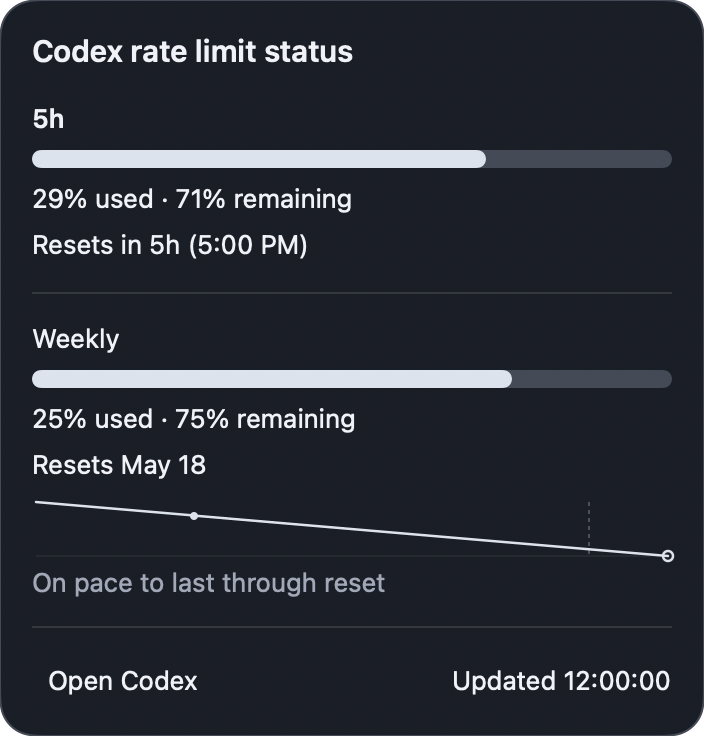
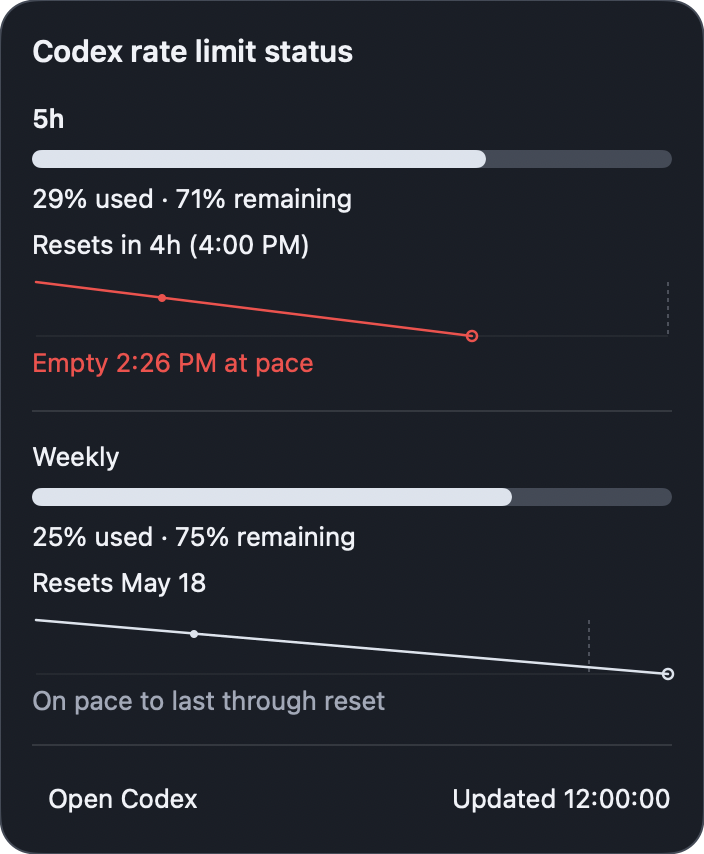
Add 5h rate-limit projection

diff --git a/Tests/CodexToolbarTests/RateLimitCardViewDataTests.swift b/Tests/CodexToolbarTests/RateLimitCardViewDataTests.swift
@@ -67,6 +67,39 @@ final class RateLimitCardViewDataTests: XCTestCase {
         XCTAssertEqual(projection.projectedEmptyPosition, 1.0, accuracy: 0.001)
         XCTAssertTrue(card.accessibilityLabel.contains("Reset comes first"))
         XCTAssertTrue(card.accessibilityLabel.contains("On pace to last through reset"))
+        XCTAssertTrue(projection.accessibilityLabel.contains("Weekly pace"))
+    }
+
+    func testFiveHourProjectionShowsResetFirstWhenProjectedEmptyFallsAfterReset() throws {
+        let now = makeDate(year: 2026, month: 5, day: 13, hour: 12, minute: 0)
+        let reset = makeDate(year: 2026, month: 5, day: 13, hour: 16, minute: 0)
+        let card = makeFiveHourCard(usedPercent: 10, reset: reset, now: now)
+        let projection = try XCTUnwrap(card.projection)
+
+        XCTAssertEqual(projection.state, .resetFirst)
+        XCTAssertEqual(projection.summaryText, "Reset comes first")
+        XCTAssertEqual(projection.detailText, "On pace to last through reset")
+        XCTAssertEqual(projection.dailyUsePercent, 240, accuracy: 0.001)
+        XCTAssertEqual(projection.projectedEmptyDate.timeIntervalSince1970, makeDate(year: 2026, month: 5, day: 13, hour: 21, minute: 0).timeIntervalSince1970, accuracy: 0.5)
+        XCTAssertEqual(projection.currentPosition, 0.1, accuracy: 0.001)
+        XCTAssertEqual(projection.resetPosition, 0.5, accuracy: 0.001)
+        XCTAssertEqual(projection.projectedEmptyPosition, 1.0, accuracy: 0.001)
+        XCTAssertTrue(projection.accessibilityLabel.contains("5h pace"))
+    }
+
+    func testFiveHourProjectionIsCriticalWhenProjectedEmptyFallsBeforeReset() throws {
+        let now = makeDate(year: 2026, month: 5, day: 13, hour: 12, minute: 0)
+        let reset = makeDate(year: 2026, month: 5, day: 13, hour: 16, minute: 0)
+        let card = makeFiveHourCard(usedPercent: 50, reset: reset, now: now)
+        let projection = try XCTUnwrap(card.projection)
+
+        XCTAssertEqual(projection.state, .critical)
+        XCTAssertEqual(projection.summaryText, "Projected empty before reset")
+        XCTAssertEqual(projection.detailText, "Empty 1:00 PM at pace")
+        XCTAssertEqual(projection.projectedEmptyDate.timeIntervalSince1970, makeDate(year: 2026, month: 5, day: 13, hour: 13, minute: 0).timeIntervalSince1970, accuracy: 0.5)
+        XCTAssertEqual(projection.currentPosition, 0.2, accuracy: 0.001)
+        XCTAssertEqual(projection.resetPosition, 1.0, accuracy: 0.001)
+        XCTAssertEqual(projection.projectedEmptyPosition, 0.4, accuracy: 0.001)
     }
 
     func testWeeklyProjectionWarnsWhenProjectedEmptyFallsBeforeReset() throws {
@@ -104,22 +137,37 @@ final class RateLimitCardViewDataTests: XCTestCase {
         XCTAssertEqual(projection.projectedEmptyDate, now)
     }
 
-    func testWeeklyProjectionIsHiddenWhenInputsAreUnavailable() {
+    func testProjectionIsHiddenWhenInputsAreUnavailable() {
         let now = makeDate(year: 2026, month: 5, day: 13, hour: 12, minute: 0)
-        let reset = makeDate(year: 2026, month: 5, day: 18, hour: 12, minute: 0)
+        let fiveHourReset = makeDate(year: 2026, month: 5, day: 13, hour: 16, minute: 0)
+        let weeklyReset = makeDate(year: 2026, month: 5, day: 18, hour: 12, minute: 0)
 
-        XCTAssertNil(makeWeeklyCard(usedPercent: 0, reset: reset, now: now).projection)
-        XCTAssertNil(makeWeeklyCard(usedPercent: 25, reset: nil, now: now).projection)
-        XCTAssertNil(makeCard(usedPercent: 25, reset: reset, durationMinutes: nil, now: now).projection)
-        XCTAssertNil(makeWeeklyCard(usedPercent: 25, reset: reset, now: makeDate(year: 2026, month: 5, day: 10, hour: 12, minute: 0)).projection)
+        XCTAssertNil(makeFiveHourCard(usedPercent: 0, reset: fiveHourReset, now: now).projection)
+        XCTAssertNil(makeFiveHourCard(usedPercent: 25, reset: nil, now: now).projection)
+        XCTAssertNil(makeCard(usedPercent: 25, reset: fiveHourReset, durationMinutes: nil, now: now).projection)
+        XCTAssertNil(makeFiveHourCard(usedPercent: 25, reset: fiveHourReset, now: makeDate(year: 2026, month: 5, day: 13, hour: 10, minute: 30)).projection)
+        XCTAssertNil(makeWeeklyCard(usedPercent: 0, reset: weeklyReset, now: now).projection)
+        XCTAssertNil(makeWeeklyCard(usedPercent: 25, reset: weeklyReset, now: makeDate(year: 2026, month: 5, day: 10, hour: 12, minute: 0)).projection)
     }
 
-    func testProjectionOnlyAppearsForCoreCodexWeeklyWindow() {
+    func testProjectionOnlyAppearsForCoreCodexFiveHourAndWeeklyWindows() {
         let now = makeDate(year: 2026, month: 5, day: 13, hour: 12, minute: 0)
-        let reset = makeDate(year: 2026, month: 5, day: 18, hour: 12, minute: 0)
-        let fiveHourCard = makeCard(usedPercent: 25, reset: reset, durationMinutes: 300, now: now)
+        let fiveHourReset = makeDate(year: 2026, month: 5, day: 13, hour: 16, minute: 0)
+        let weeklyReset = makeDate(year: 2026, month: 5, day: 18, hour: 12, minute: 0)
+        let coreFiveHourCard = makeFiveHourCard(usedPercent: 25, reset: fiveHourReset, now: now)
+        let coreWeeklyCard = makeWeeklyCard(usedPercent: 25, reset: weeklyReset, now: now)
+        let coreTwoWeekCard = makeCard(usedPercent: 25, reset: weeklyReset, durationMinutes: 20_160, now: now)
+        let supplementalFiveHourCard = RateLimitCardViewData(
+            window: makeWindow(usedPercent: 25, reset: fiveHourReset, durationMinutes: 300),
+            familyId: "codex_bengalfox",
+            categoryLabel: "GPT-5.3-Codex-Spark",
+            now: now,
+            calendar: testCalendar,
+            locale: testLocale,
+            timeZone: testTimeZone
+        )
         let supplementalWeeklyCard = RateLimitCardViewData(
-            window: makeWindow(usedPercent: 25, reset: reset, durationMinutes: 10_080),
+            window: makeWindow(usedPercent: 25, reset: weeklyReset, durationMinutes: 10_080),
             familyId: "codex_bengalfox",
             categoryLabel: "GPT-5.3-Codex-Spark",
             now: now,
@@ -128,7 +176,10 @@ final class RateLimitCardViewDataTests: XCTestCase {
             timeZone: testTimeZone
         )
 
-        XCTAssertNil(fiveHourCard.projection)
+        XCTAssertNotNil(coreFiveHourCard.projection)
+        XCTAssertNotNil(coreWeeklyCard.projection)
+        XCTAssertNil(coreTwoWeekCard.projection)
+        XCTAssertNil(supplementalFiveHourCard.projection)
         XCTAssertNil(supplementalWeeklyCard.projection)
     }
 
@@ -146,6 +197,10 @@ final class RateLimitCardViewDataTests: XCTestCase {
 
     private func makeWeeklyCard(usedPercent: Int, reset: Date?, now: Date) -> RateLimitCardViewData {
         makeCard(usedPercent: usedPercent, reset: reset, durationMinutes: 10_080, now: now)
+    }
+
+    private func makeFiveHourCard(usedPercent: Int, reset: Date?, now: Date) -> RateLimitCardViewData {
+        makeCard(usedPercent: usedPercent, reset: reset, durationMinutes: 300, now: now)
     }
 
     private func makeCard(

diff --git a/Tests/CodexToolbarTests/ScreenshotScenarioTests.swift b/Tests/CodexToolbarTests/ScreenshotScenarioTests.swift
@@ -66,7 +66,7 @@ final class ScreenshotScenarioTests: XCTestCase {
         XCTAssertEqual(store.lastUpdated, ScreenshotScenario.multiweek.lastUpdated)
     }
 
-    func testProjectionScenarioBuildsWeeklyResetRiskChartData() throws {
+    func testProjectionScenarioBuildsFiveHourAndWeeklyResetRiskChartData() throws {
         let scenario = try XCTUnwrap(ScreenshotScenario.named("projection"))
         let cards = RateLimitStore.makeCards(
             from: scenario.snapshot,
@@ -75,12 +75,17 @@ final class ScreenshotScenarioTests: XCTestCase {
             locale: scenario.locale,
             timeZone: scenario.timeZone
         )
+        let fiveHourCard = try XCTUnwrap(cards.first { $0.title == "5h" })
+        let fiveHourProjection = try XCTUnwrap(fiveHourCard.projection)
         let weeklyCard = try XCTUnwrap(cards.first { $0.title == "Weekly" })
-        let projection = try XCTUnwrap(weeklyCard.projection)
+        let weeklyProjection = try XCTUnwrap(weeklyCard.projection)
 
-        XCTAssertEqual(projection.state, .resetFirst)
-        XCTAssertEqual(projection.summaryText, "Reset comes first")
-        XCTAssertEqual(projection.detailText, "On pace to last through reset")
+        XCTAssertEqual(fiveHourProjection.state, .critical)
+        XCTAssertEqual(fiveHourProjection.summaryText, "Projected empty before reset")
+        XCTAssertEqual(fiveHourProjection.detailText, "Empty 2:26 PM at pace")
+        XCTAssertEqual(weeklyProjection.state, .resetFirst)
+        XCTAssertEqual(weeklyProjection.summaryText, "Reset comes first")
+        XCTAssertEqual(weeklyProjection.detailText, "On pace to last through reset")
     }
 
     func testSparkScenarioBuildsFamilySectionsWithCodexFirst() throws {

diff --git a/Sources/CodexToolbar/Models/CodexRateLimits.swift b/Sources/CodexToolbar/Models/CodexRateLimits.swift
@@ -216,6 +216,7 @@ struct RateLimitProjectionViewData: Equatable, Sendable {
     let accessibilityLabel: String
 
     init?(
+        windowLabel: String,
         window: CodexRateLimitWindow,
         remainingPercent: Int,
         now: Date,
@@ -294,7 +295,7 @@ struct RateLimitProjectionViewData: Equatable, Sendable {
         projectedEmptyPosition = Self.clampedPosition(for: projectedEmptyDate, start: windowStartDate, durationSeconds: chartDurationSeconds)
         self.summaryText = summaryText
         self.detailText = detailText
-        accessibilityLabel = "Weekly pace. \(summaryText). \(detailText). \(remainingPercent)% remaining."
+        accessibilityLabel = "\(windowLabel) pace. \(summaryText). \(detailText). \(remainingPercent)% remaining."
     }
 
     private static func clampedPosition(for date: Date, start: Date, durationSeconds: TimeInterval) -> Double {
@@ -401,11 +402,12 @@ struct RateLimitCardViewData: Equatable, Sendable {
         progressState = RateLimitProgressState(remainingPercent: remainingPercent)
         self.isPrimary = isPrimary
         resetDate = window.resetDate
+        let normalizedDuration = window.windowDurationMins.map(RateLimitFormatter.normalizedWindowMinutes)
         if familyId == GetAccountRateLimitsResponse.codexLimitId,
-           let duration = window.windowDurationMins,
-           RateLimitFormatter.normalizedWindowMinutes(duration) == 10_080
+           normalizedDuration == 300 || normalizedDuration == 10_080
         {
             projection = RateLimitProjectionViewData(
+                windowLabel: title,
                 window: window,
                 remainingPercent: remainingPercent,
                 now: now,

diff --git a/site/hero-test.html b/site/hero-test.html
@@ -13,7 +13,7 @@
         <p class="eyebrow">Hero comparison</p>
         <h1>Current light and dark hero images</h1>
         <p class="lede">
-          Left is the current <strong>light mode</strong> projection chart hero image.
+          Left is the current <strong>light mode</strong> two-chart projection hero image.
           Right is the matching <strong>dark mode</strong> hero image.
         </p>
       </header>
@@ -27,9 +27,9 @@
           <div class="image-stage image-stage-light">
             <img
               src="/assets/codextoolbar-tahoe-light.png"
-              alt="Light mode Codex Toolbar hero image with the Weekly projection chart."
+              alt="Light mode Codex Toolbar hero image with 5h and Weekly projection charts."
               width="704"
-              height="736"
+              height="854"
             >
           </div>
         </article>
@@ -42,9 +42,9 @@
           <div class="image-stage image-stage-light">
             <img
               src="/assets/codextoolbar-tahoe-dark.png"
-              alt="Dark mode Codex Toolbar hero image with the Weekly projection chart."
+              alt="Dark mode Codex Toolbar hero image with 5h and Weekly projection charts."
               width="704"
-              height="736"
+              height="854"
             >
           </div>
         </article>

diff --git a/Sources/CodexToolbar/App/ScreenshotScenario.swift b/Sources/CodexToolbar/App/ScreenshotScenario.swift
@@ -191,7 +191,7 @@ struct ScreenshotScenario: Equatable, Sendable {
 
     static let projection: ScreenshotScenario = {
         let now = date(year: 2026, month: 5, day: 13, hour: 12, minute: 0)
-        let primaryReset = date(year: 2026, month: 5, day: 13, hour: 17, minute: 0)
+        let primaryReset = date(year: 2026, month: 5, day: 13, hour: 16, minute: 0)
         let secondaryReset = date(year: 2026, month: 5, day: 18, hour: 12, minute: 0)
         return ScreenshotScenario(
             name: "projection",

diff --git a/site/index.html b/site/index.html
@@ -102,9 +102,9 @@
               >
               <img
                 src="/assets/codextoolbar-tahoe-light.png"
-                alt="Codex Toolbar showing the Weekly rate-limit projection chart in the macOS popover."
+                alt="Codex Toolbar showing 5h and Weekly rate-limit projection charts in the macOS popover."
                 width="704"
-                height="736"
+                height="854"
               >
             </picture>
           </figure>

diff --git a/README.md b/README.md
@@ -6,7 +6,7 @@ A small macOS menu bar app that shows your Codex rate-limit remaining values.
 
 - Shows a compact progress bar for the most constrained core Codex window in the menu bar, including multi-week windows.
 - Shows a popover with used/remaining percentages, progress bars, and reset timing.
-- Projects from the current Weekly pace whether tokens will run out before reset.
+- Projects from the current 5h and Weekly pace whether tokens will run out before reset.
 - Optionally shows organization-level OpenAI API usage in the popover when you enable the view and configure an `OPENAI_ADMIN_KEY`.
 - Adds an `Open Codex` button in the popover when the Codex desktop app is installed.
 - Refreshes automatically on system clock minute boundaries.
